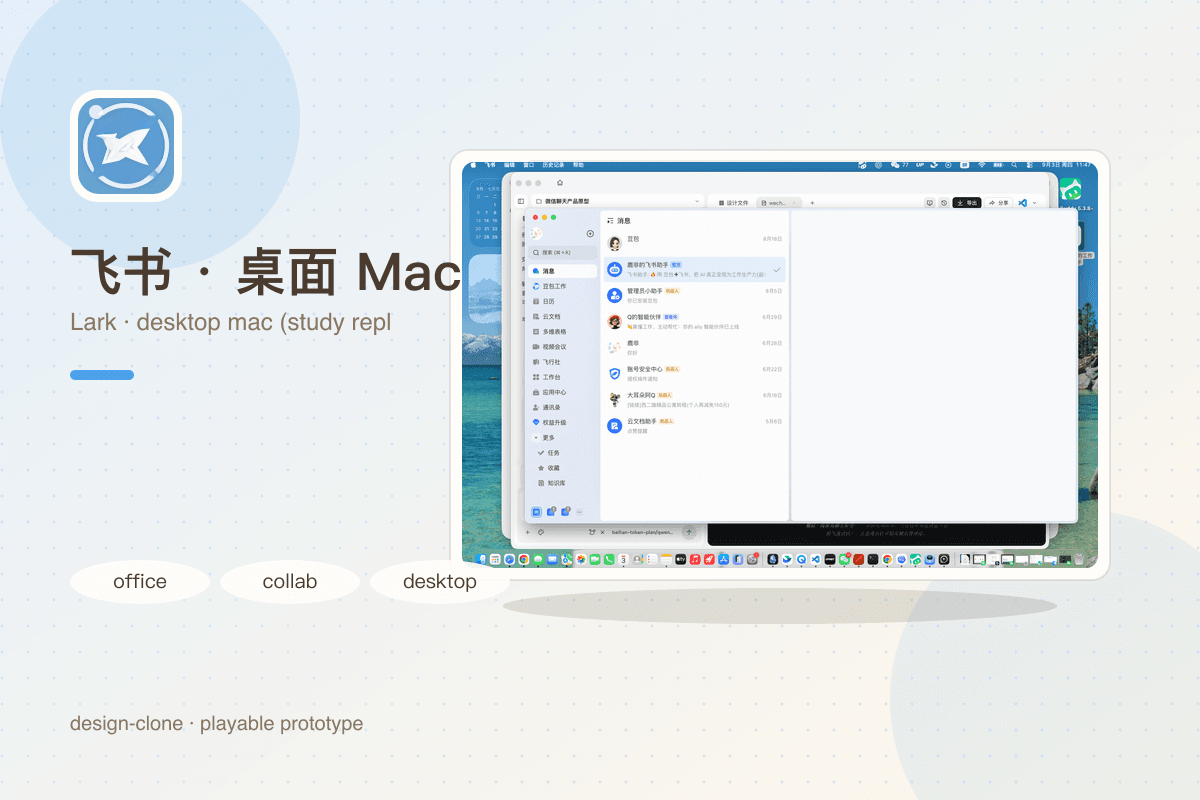
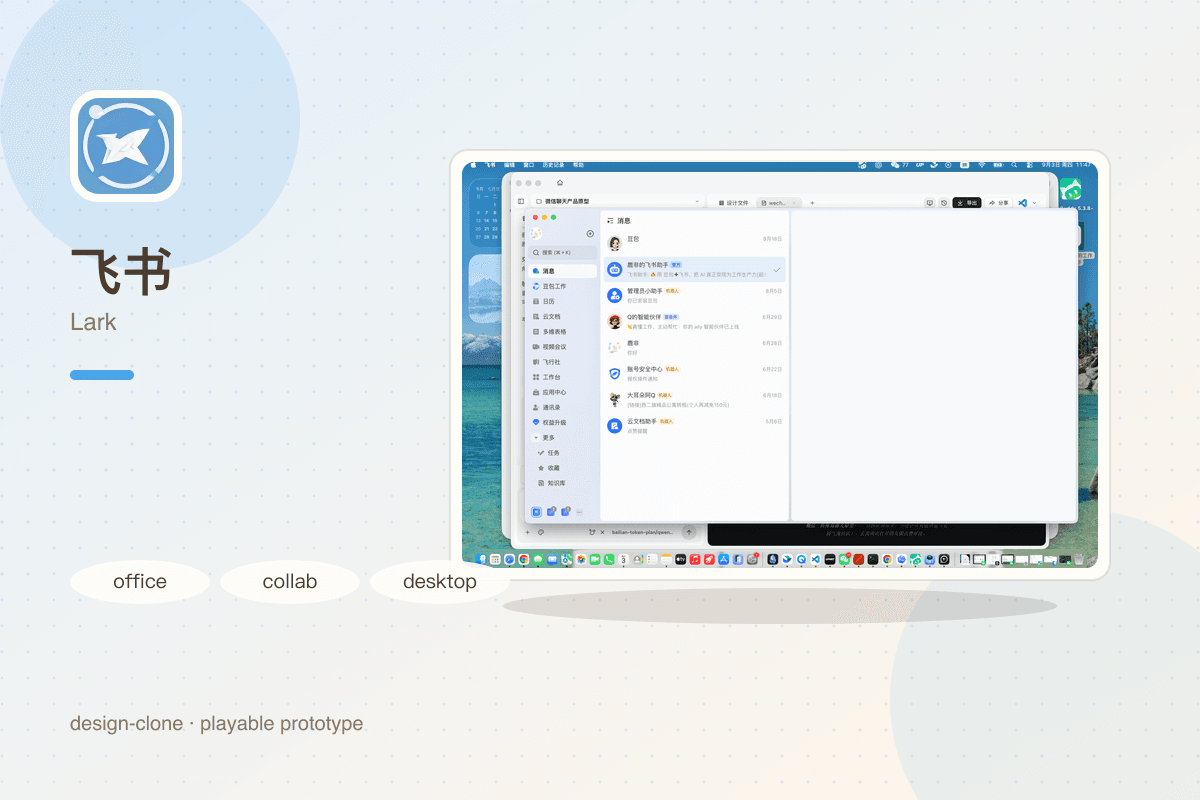
publish(lark): Lark v1.3.0 (#15)

Changed region(s): [[0.1233, 0.3125, 0.4008, 0.4375], [0.4008, 0.4375, 0.4317, 0.4688]]

diff --git a/lark/PROVENANCE.md b/lark/PROVENANCE.md
@@ -1,4 +1,4 @@
-# Lark · desktop mac (study replica) (lark/undefined)
+# Lark (lark/undefined)
 
 > Unofficial study replica generated with design-clone. All trademarks and brand assets belong to their respective owners; no affiliation or endorsement implied.
 
@@ -7,4 +7,4 @@
 - gates: interact dead=undefined | inspect fail=undefined pass=undefined | ui-smoke fail=undefined pass=undefined
 
 ## Changes
-- v1.2.0: initial publish
+- v1.3.0: initial publish
